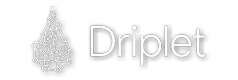
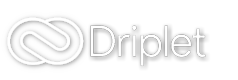
Work on password reset and rebrand

Changed region(s): [[0.0294, 0.075, 0.3824, 0.925], [0.1471, 0.2, 0.1765, 0.225]]

diff --git a/src/containers/pages/Auth.js b/src/containers/pages/Auth.js
@@ -1,10 +1,100 @@
+import {Redirect} from "react-router-dom";
 import React, {Component} from "react";
+import queryString from "query-string";
 
 import Button from "../../containers/partials/Button";
 import {APIContext} from "../../components/API";
+import {AppContext} from "../../components/App";
 import AppPage from "../../components/AppPage";
 
 import "../../css/auth.css"
+
+
+export class Reset extends Component {
+    constructor(props) {
+        super(props);
+
+        this.state = {
+            password: "",
+            password2: "",
+
+            lock: false,
+            error: "",
+            redirect: false,
+
+            key: null,
+        };
+
+        this.handleChange = this.handleChange.bind(this);
+    }
+
+    componentWillMount() {
+        const values = queryString.parse(this.props.location.search);
+        this.setState({key: values.key});
+    }
+
+    handleChange(event) {
+        this.setState({[event.target.name]: event.target.value});
+    }
+
+    valid() {
+        if (this.state.password !== this.state.password2)
+            return false;
+        return this.state.password.length;
+    }
+
+    reset(api) {
+        return () => {
+            this.setState({lock: true});
+            api.reset({
+                key: this.state.key,
+                password: this.state.password,
+            }, (data) => {
+                this.setState({
+                    redirect: true
+                });
+            }, (data) => {
+                this.setState({
+                    lock: false,
+                    error: data.message
+                })
+            })
+        }
+    }
+
+    render() {
+        if (!this.state.key || this.state.redirect) return <Redirect to={"/login"}/>;
+
+        let valid = this.valid();
+        return (
+            <AppPage><APIContext.Consumer>{api =>
+                <div className={"auth-wrap"}>
+                    <div className={"auth-modal"}>
+                        <div className={"auth-modal-body"}>
+                            <label>Password</label>
+                            <div className={"input-wrap"}><input name={"password"} type={"password"}
+                                                                 value={this.state.password}
+                                                                 onChange={this.handleChange} placeholder={"Password"}
+                                                                 disabled={this.state.lock}/></div>
+
+                            <label>Repeat Password</label>
+                            <div className={"input-wrap"}><input name={"password2"} type={"password"}
+                                                                 value={this.state.password2}
+                                                                 onChange={this.handleChange}
+                                                                 placeholder={"Repeat Password"}
+                                                                 disabled={this.state.lock}/></div>
+
+                            <div style={{color: "red"}}>{this.state.error}</div>
+
+                            <Button locked={this.state.lock || (!valid)}
+                                    click={this.reset(api)} val={"Reset Password"}/>
+                        </div>
+                    </div>
+                </div>
+            }</APIContext.Consumer></AppPage>
+        );
+    }
+}
 
 
 export class Login extends Component {
@@ -92,6 +182,15 @@ export class Login extends Component {
         }
     }
 
+    forgot(app) {
+        return () => {
+            let message = "If this account exists, you will have been sent an email to the address linked to you account.\n"
+            message += "Please follow the instructions in there to continue the password reset.\n\n";
+            message += "(Make sure to check your spam folder)";
+            app.showDialog({title: "Password reset", body: message, dismissible: true});
+        }
+    }
+
     render() {
         let valid = this.valid();
         return (
@@ -122,7 +221,11 @@ export class Login extends Component {
                                                                      value={this.state.email}
                                                                      onChange={this.handleChange} placeholder={"Email"}
                                                                      disabled={this.state.lock}/></div>
-                            </> : null}
+                            </> : <>
+                                <AppContext.Consumer>{app => (
+                                <div className={"auth-forgot"} onClick={this.forgot(app)}>I forgot my password</div>
+                                )}</AppContext.Consumer>
+                            </>}
 
                             <div style={{color: "red"}}>{this.state.error}</div>
 

diff --git a/src/components/API.js b/src/components/API.js
@@ -17,11 +17,12 @@ export const APIContext = React.createContext({
 axios.interceptors.response.use(
     response => {
         console.debug(response.data);
-        return response
+        return response;
     },
     error => {
+        if (!error.response) error.response = {data: {message: "Failed to communcate with Driplet"}};
         console.debug(error.response.data);
-        return Promise.reject(error.response)
+        return Promise.reject(error.response);
     }
 );
 
@@ -41,6 +42,8 @@ class APIClass extends Component {
         ACCOUNT: "/accounts/%client_id%",
         REGISTER: "/register",
         LOGIN: "/login",
+
+        RESET: "/reset",
 
         SERVICES: "/%client_id%/services",
     };
@@ -62,6 +65,7 @@ class APIClass extends Component {
             console_trace: "",
 
             register: this.register,
+            reset: this.reset,
             login: this.login,
             logout: this.logout,
             list_services: this.list_services,
@@ -149,6 +153,18 @@ class APIClass extends Component {
         }).then(response => {
             success(response.data, this);
         }).catch(() => failure(this));
+    };
+
+    reset = (data, success, failure) => {
+        axios({
+            url: this.BASE_URL + this.ENDPOINTS.RESET,
+            method: "post",
+            data: {key: data.username, password: data.password}
+        }).then(response => {
+            success(response.data, this);
+        }).catch(response => {
+            failure(response.data)
+        });
     };
 
     login = (data, success, failure) => {

diff --git a/src/components/Routes.js b/src/components/Routes.js
@@ -4,7 +4,7 @@ import {Switch, Route, Redirect} from "react-router-dom";
 import Dashboard from "../containers/pages/Dashboard";
 import NotFound from "../containers/pages/NotFound";
 import Service from "../containers/pages/Service";
-import {Login} from "../containers/pages/Auth";
+import {Login, Reset} from "../containers/pages/Auth";
 import {APIContext} from "./API";
 
 
@@ -40,6 +40,7 @@ export default () =>
             <Route path="/@me/services/:serviceID" exact render={checkAuth(Service, api)}/>
 
             <Route path="/login" exact component={checkAuth(Login, api, false)}/>
+            <Route path="/reset" exact component={Reset}/>
             <Route path="/logout" exact render={() => <LogoutPage api={api}/>}/>
 
             <Route component={NotFound}/>

diff --git a/src/css/dashboard.css b/src/css/dashboard.css
@@ -55,7 +55,7 @@
 .dash-card-icon {
     width: 128px;
     height: 128px;
-    background-color: #e5e5e5;
+    background-color: #76bbf7;
     flex-shrink: 0;
     color: #fff;
     line-height: 128px;
@@ -64,13 +64,21 @@
     position: relative;
 }
 
-.dash-card-icon img {
+.dash-card-icon img, .dash-card-icon-img {
     position: absolute;
     max-height: 100%;
     max-width: 100%;
     left: 50%;
     top: 50%;
     transform: translate(-50%, -50%);
+}
+
+.dash-card-icon-img {
+    background-position: center;
+    background-size: contain;
+    padding: 50px;
+    background-repeat: no-repeat;
+    background-image: url("/driplet.png");
 }
 
 .dash-card-body {

diff --git a/src/containers/pages/Dashboard.js b/src/containers/pages/Dashboard.js
@@ -11,7 +11,7 @@ class ServiceCard extends Component {
         return (
             <div className={"dash-card"}>
                 <div className={"dash-card-icon"} style={{backgroundColor: this.props.color}}>
-                    <i className={"fa-fw fas fa-tint"}/>
+                    <div className={"dash-card-icon-img"}/>
                 </div>
                 <div className={"dash-card-body"}>
                     <div className={"dash-card-name"}>{this.props.name}</div>

diff --git a/src/css/auth.css b/src/css/auth.css
@@ -20,6 +20,17 @@
     width: 400px;
 }
 
+.auth-forgot {
+    font-size: .8em;
+    color: #555;
+    float: left;
+    cursor: pointer;
+}
+
+.auth-forgot:hover {
+    text-decoration: underline;
+}
+
 @media only screen and (max-width: 450px) {
     .auth-modal-body input {
         width: auto;
